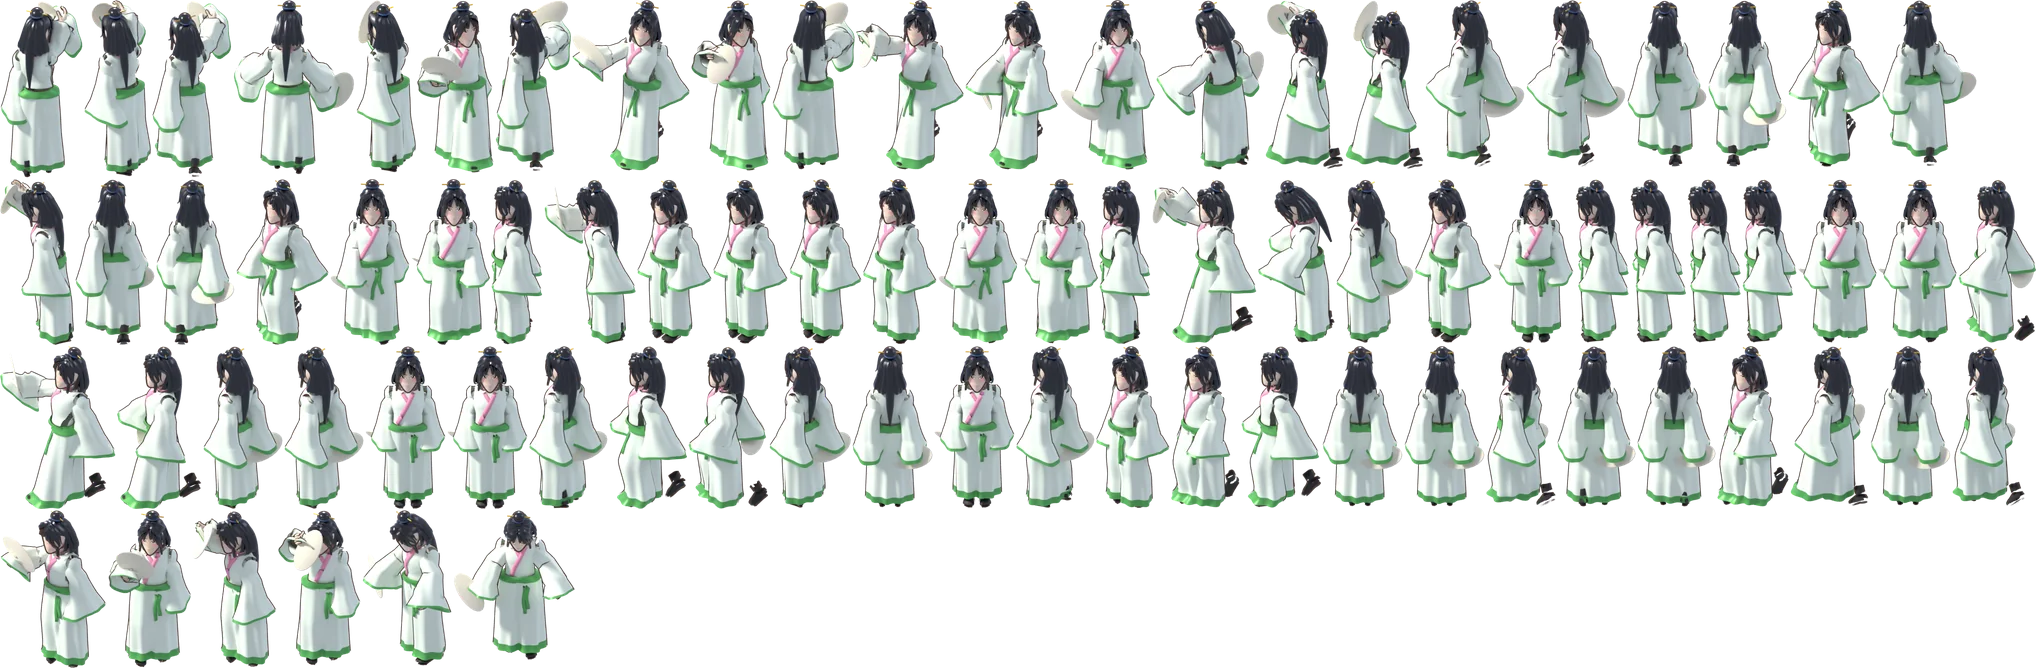
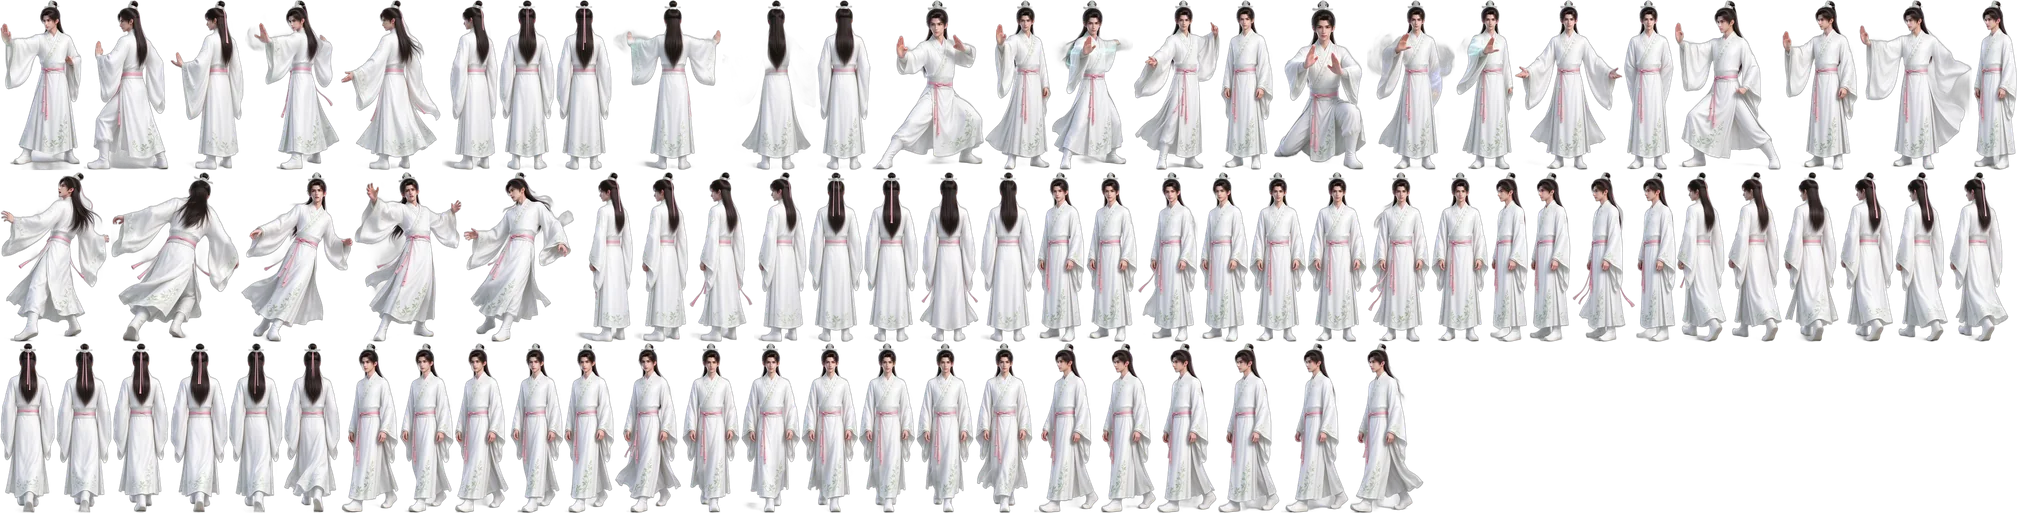
AI精绘: 男宗门弟子百草谷变体写实化(player_m1b, 80帧 SD 包)

diff --git a/test/player_m1b_check.py b/test/player_m1b_check.py
@@ -1,0 +1,72 @@
+# -*- coding: utf-8 -*-
+# AI 精绘精灵链自测：建角进游戏，遍历 8 方向 × 4 动作，截图，断言 0 控制台错误。
+import asyncio, os, sys, json
+from playwright.async_api import async_playwright
+HERE = os.path.dirname(os.path.abspath(__file__))
+ROOT = os.path.abspath(os.path.join(HERE, '..', 'www'))
+URL = 'file://' + ROOT + '/index.html'
+OUT = os.path.join(HERE, 'shots_player_m1b') + '/'; os.makedirs(OUT, exist_ok=True)
+CHROME = os.environ.get('CHROME', '/opt/vm/preinstall/ms-playwright/chromium-1169/chrome-linux/chrome')
+
+CLICK_JS = """()=>{
+  const ws=[...document.querySelectorAll('#modals .mwrap')];
+  if(!ws.length) return false;
+  const w=ws[ws.length-1];
+  const opt=w.querySelector('.opts .opt');
+  if(opt){opt.click(); return true;}
+  return false;
+}"""
+
+async def main():
+    errs = []
+    async with async_playwright() as p:
+        b = await p.chromium.launch(executable_path=CHROME, args=['--allow-file-access-from-files', '--autoplay-policy=no-user-gesture-required'])
+        ctx = await b.new_context(viewport={'width': 390, 'height': 844}, device_scale_factor=2, is_mobile=True, has_touch=True)
+        pg = await ctx.new_page()
+        pg.on('pageerror', lambda e: errs.append('PAGEERR ' + str(e)))
+        pg.on('console', lambda m: errs.append(m.text) if m.type == 'error' else None)
+
+        async def pump(n=10, every=600):
+            for _ in range(n):
+                clicked = await pg.evaluate(CLICK_JS)
+                if clicked: await pg.wait_for_timeout(every)
+                else: await pg.wait_for_timeout(250)
+
+        await pg.goto(URL); await pg.wait_for_timeout(2500)
+        await pg.click('text=开始新人生'); await pg.wait_for_timeout(400)
+        await pg.click('#nx'); await pg.wait_for_timeout(300)
+        for k in range(3): await pg.locator('.talb').nth(k).click()
+        await pg.click('#nx'); await pg.wait_for_timeout(300)
+        await pg.click('#rs'); await pg.click('#nx'); await pg.wait_for_timeout(300)
+        await pg.click('#nx'); await pg.wait_for_timeout(3000)
+        await pump(10, 350)
+        await pg.wait_for_timeout(1200)
+
+        g = await pg.evaluate("()=>Game.G ? {age:Game.G.age, map:R.mapId, spr:R.player&&R.player.spr} : null")
+        print('game_loaded:', g)
+
+        # 强制把玩家 sprite 换成 player_m1b（本任务验证对象）
+        await pg.evaluate("()=>{ if(R.player){ R.player.spr='player_m1b'; } }")
+        await pg.wait_for_timeout(400)
+        g2 = await pg.evaluate("()=>R.player && R.player.spr")
+        print('forced spr:', g2)
+
+        # 遍历 8 方向 × 4 动作
+        dirs = ['S','SW','W','NW','N']
+        anims = ['idle','walk','attack','hurt']
+        for d in dirs:
+            for an in anims:
+                nframes = await pg.evaluate(f"()=>{{ const S=ASSETS.sprites.player_m1b; return S.anims['{an}']||0; }}")
+                await pg.evaluate(f"()=>{{ if(R.player){{ R.player.dir='{d}'; R.player.anim='{an}'; R.player.at=0; }} }}")
+                await pg.wait_for_timeout(350)
+                await pg.screenshot(path=OUT + f'chk_{an}_{d}.png')
+                print(f'shot {an}_{d} (n={nframes})')
+
+        await b.close()
+
+    print('--- errors ---')
+    for e in errs: print('ERR:', e[:200])
+    print('total errors:', len(errs))
+
+if __name__ == '__main__':
+    asyncio.run(main())
